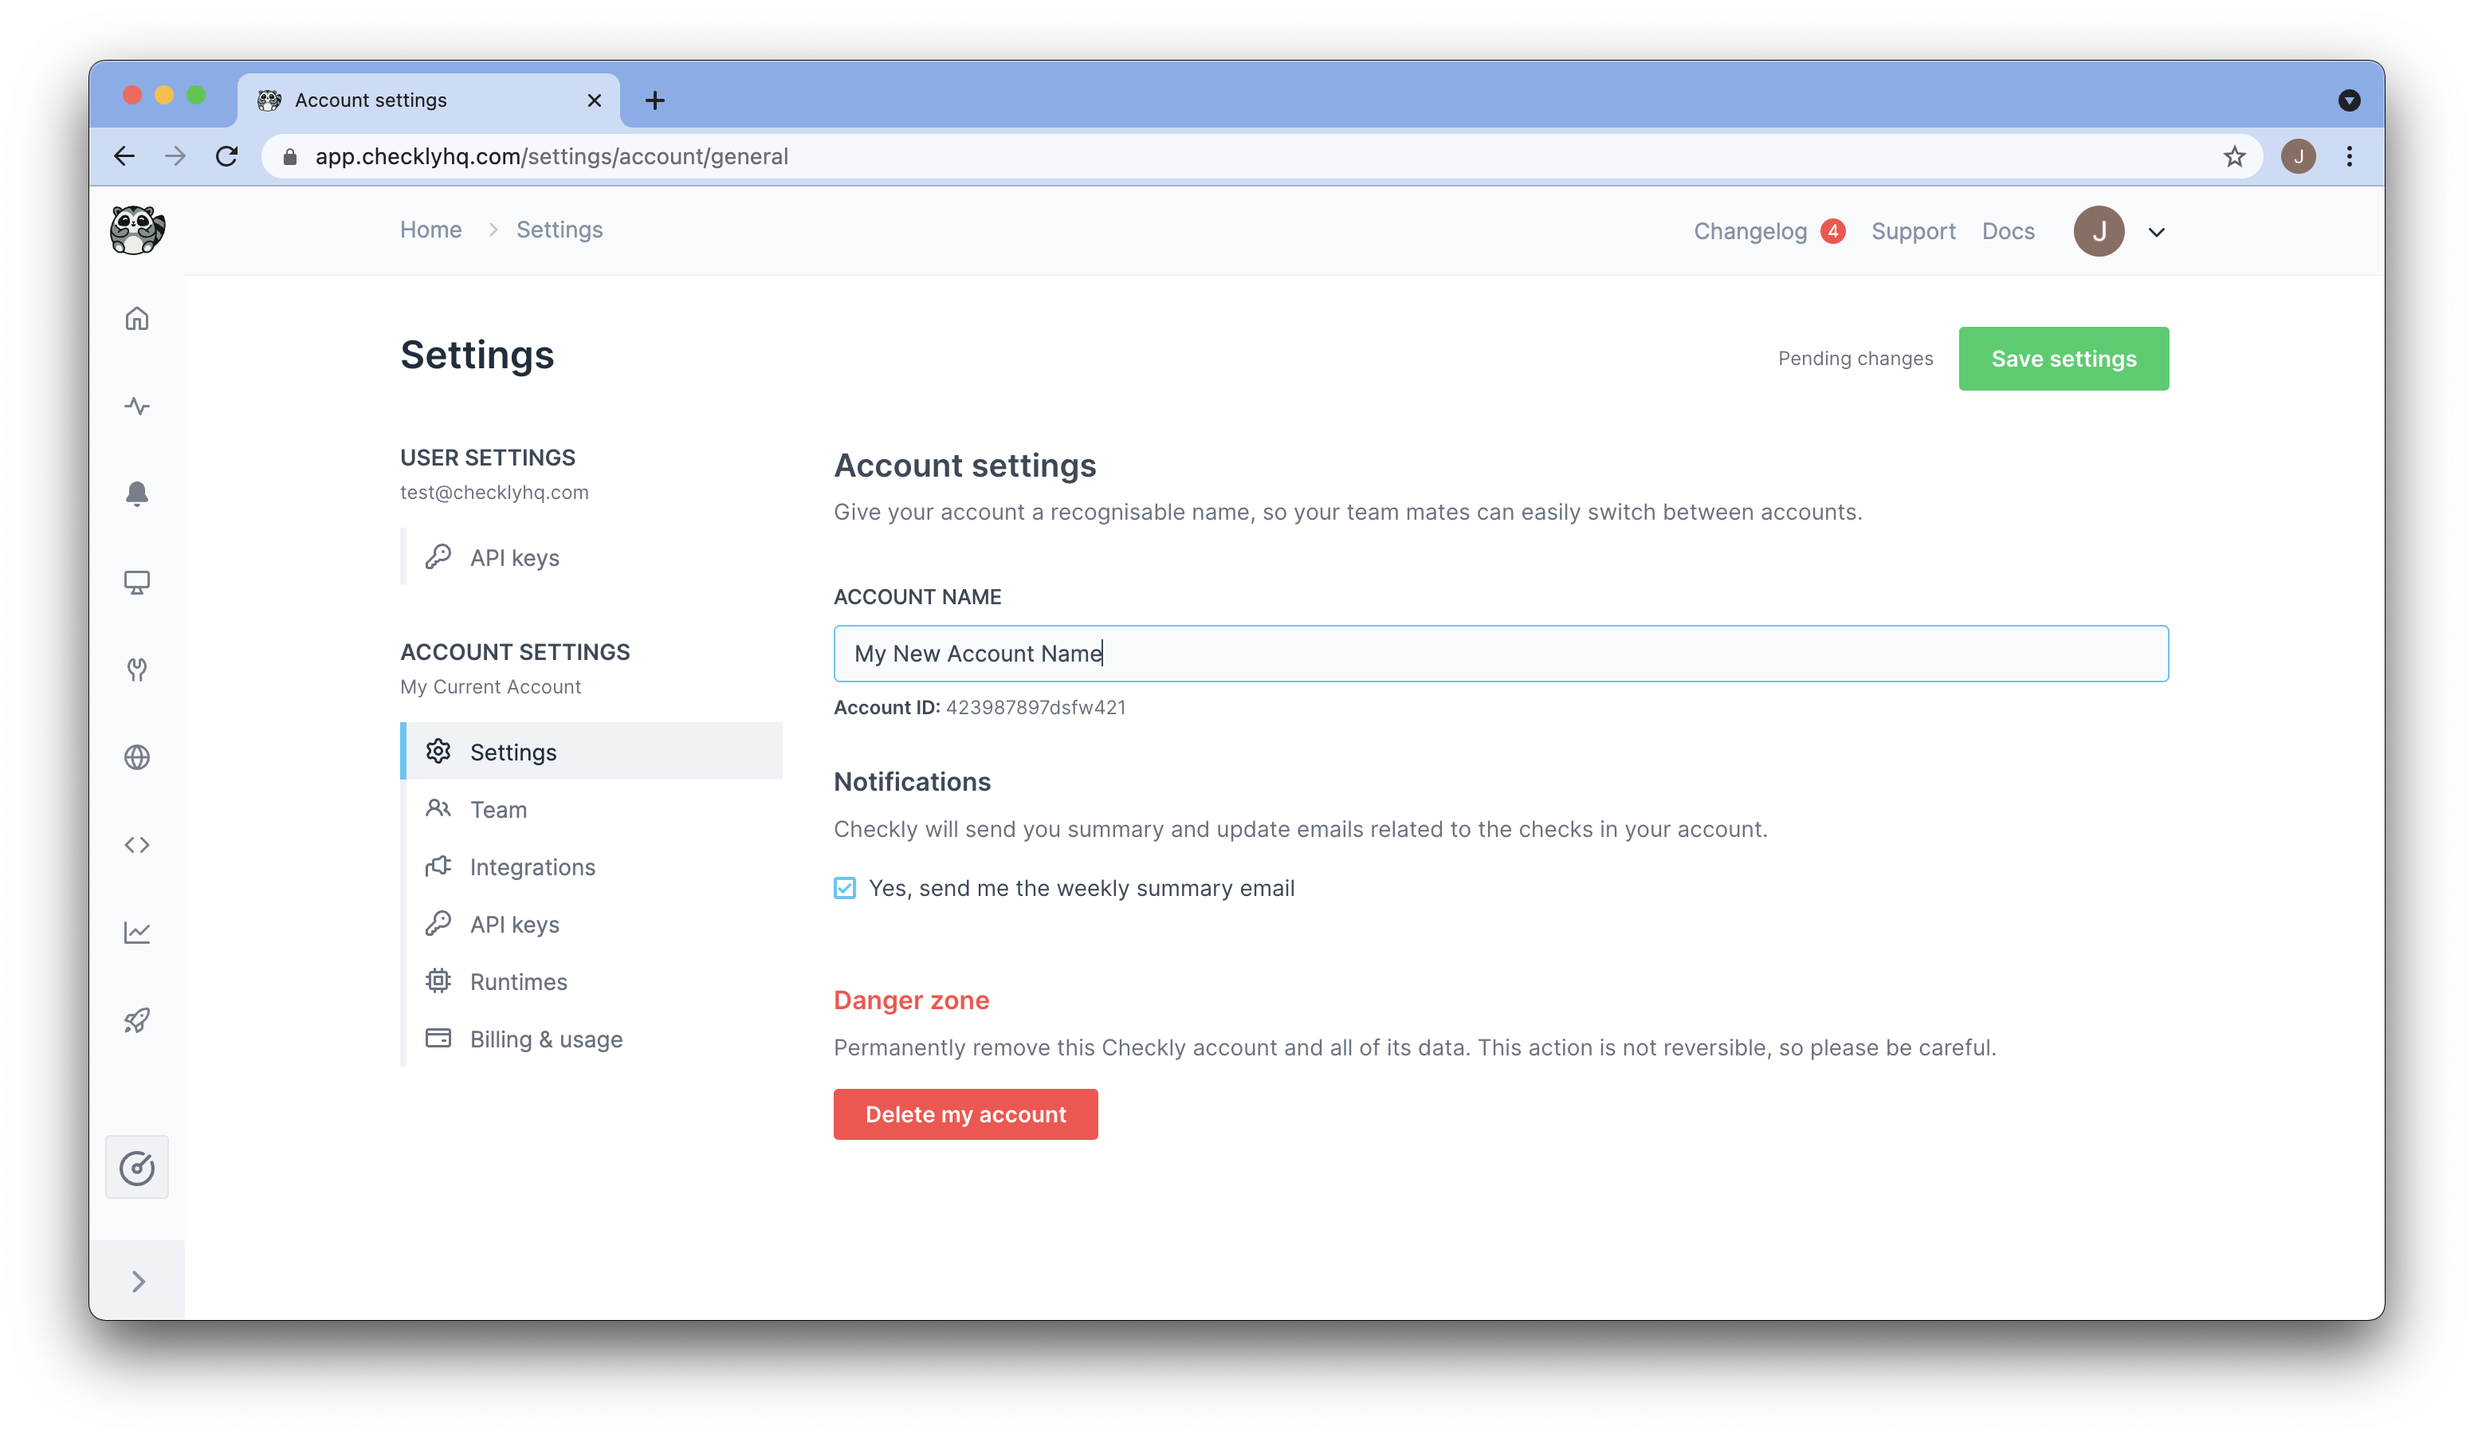
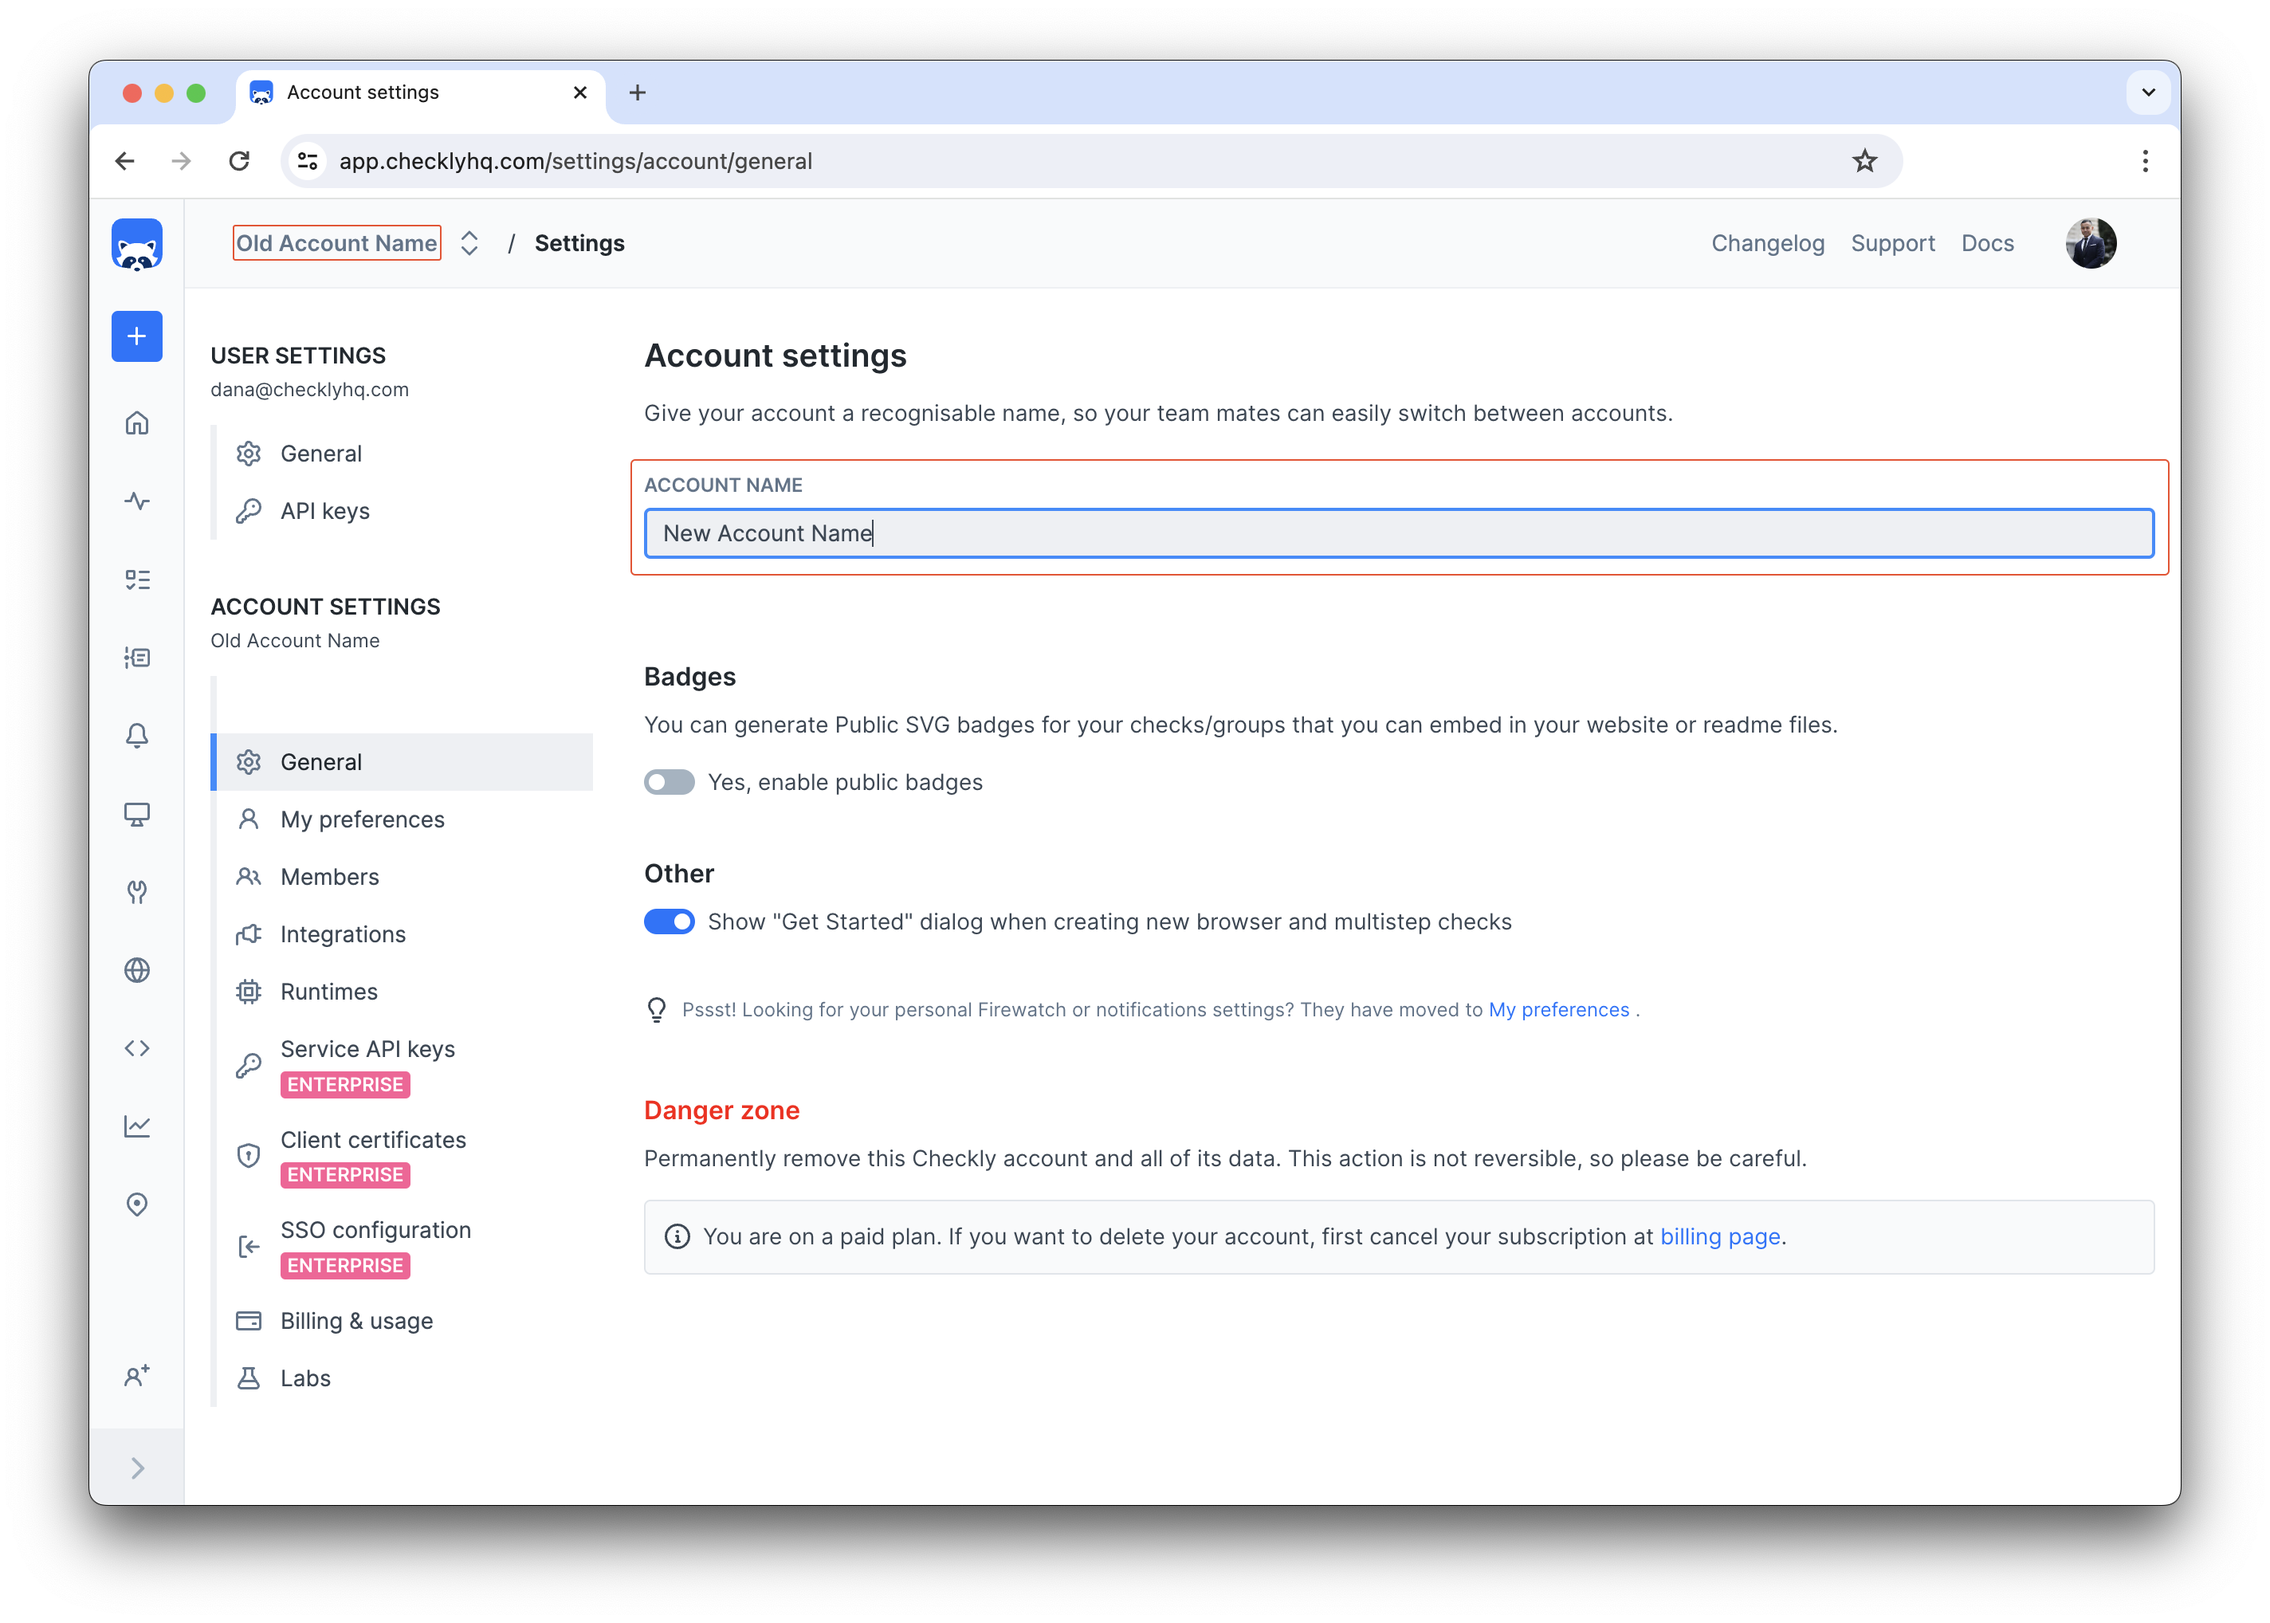
update images for adding team members (#1013)
* update images for adding team members

* update add team members with new screenshots

* remove support view text

* prettier screenshots with dropshadow

* embed link to members section

* unbold and link members section

---------

diff --git a/site/content/docs/accounts-and-users/adding-team-members.md b/site/content/docs/accounts-and-users/adding-team-members.md
@@ -13,15 +13,9 @@ Team members can have different [roles](/docs/accounts-and-users/).
 
 ## Inviting team members
 
-Go to the **team** section of your account overview.
+Go to the [Members section](https://app.checklyhq.com/settings/account/members) of your account overview. Add the email address of each user you want to invite. A pending invite will be added to your list of users. The invite is valid for 30 days, and you can retract it at any moment.
 
 ![Checkly teams](/docs/images/teams/team.png)
-
-Click the **Invite users** button and add the email address of each user you want to invite. A pending invite will be added
-to your list of users. The invite is valid for 30 days, and you can retract it at any moment.
-
-![send team invite](/docs/images/teams/send_invite.png)
-
 
 The account owner can change the default **account name** under the account settings tab. By default the account name is the
 owner's email address, but you can change it to reflect a department, product team etc.
